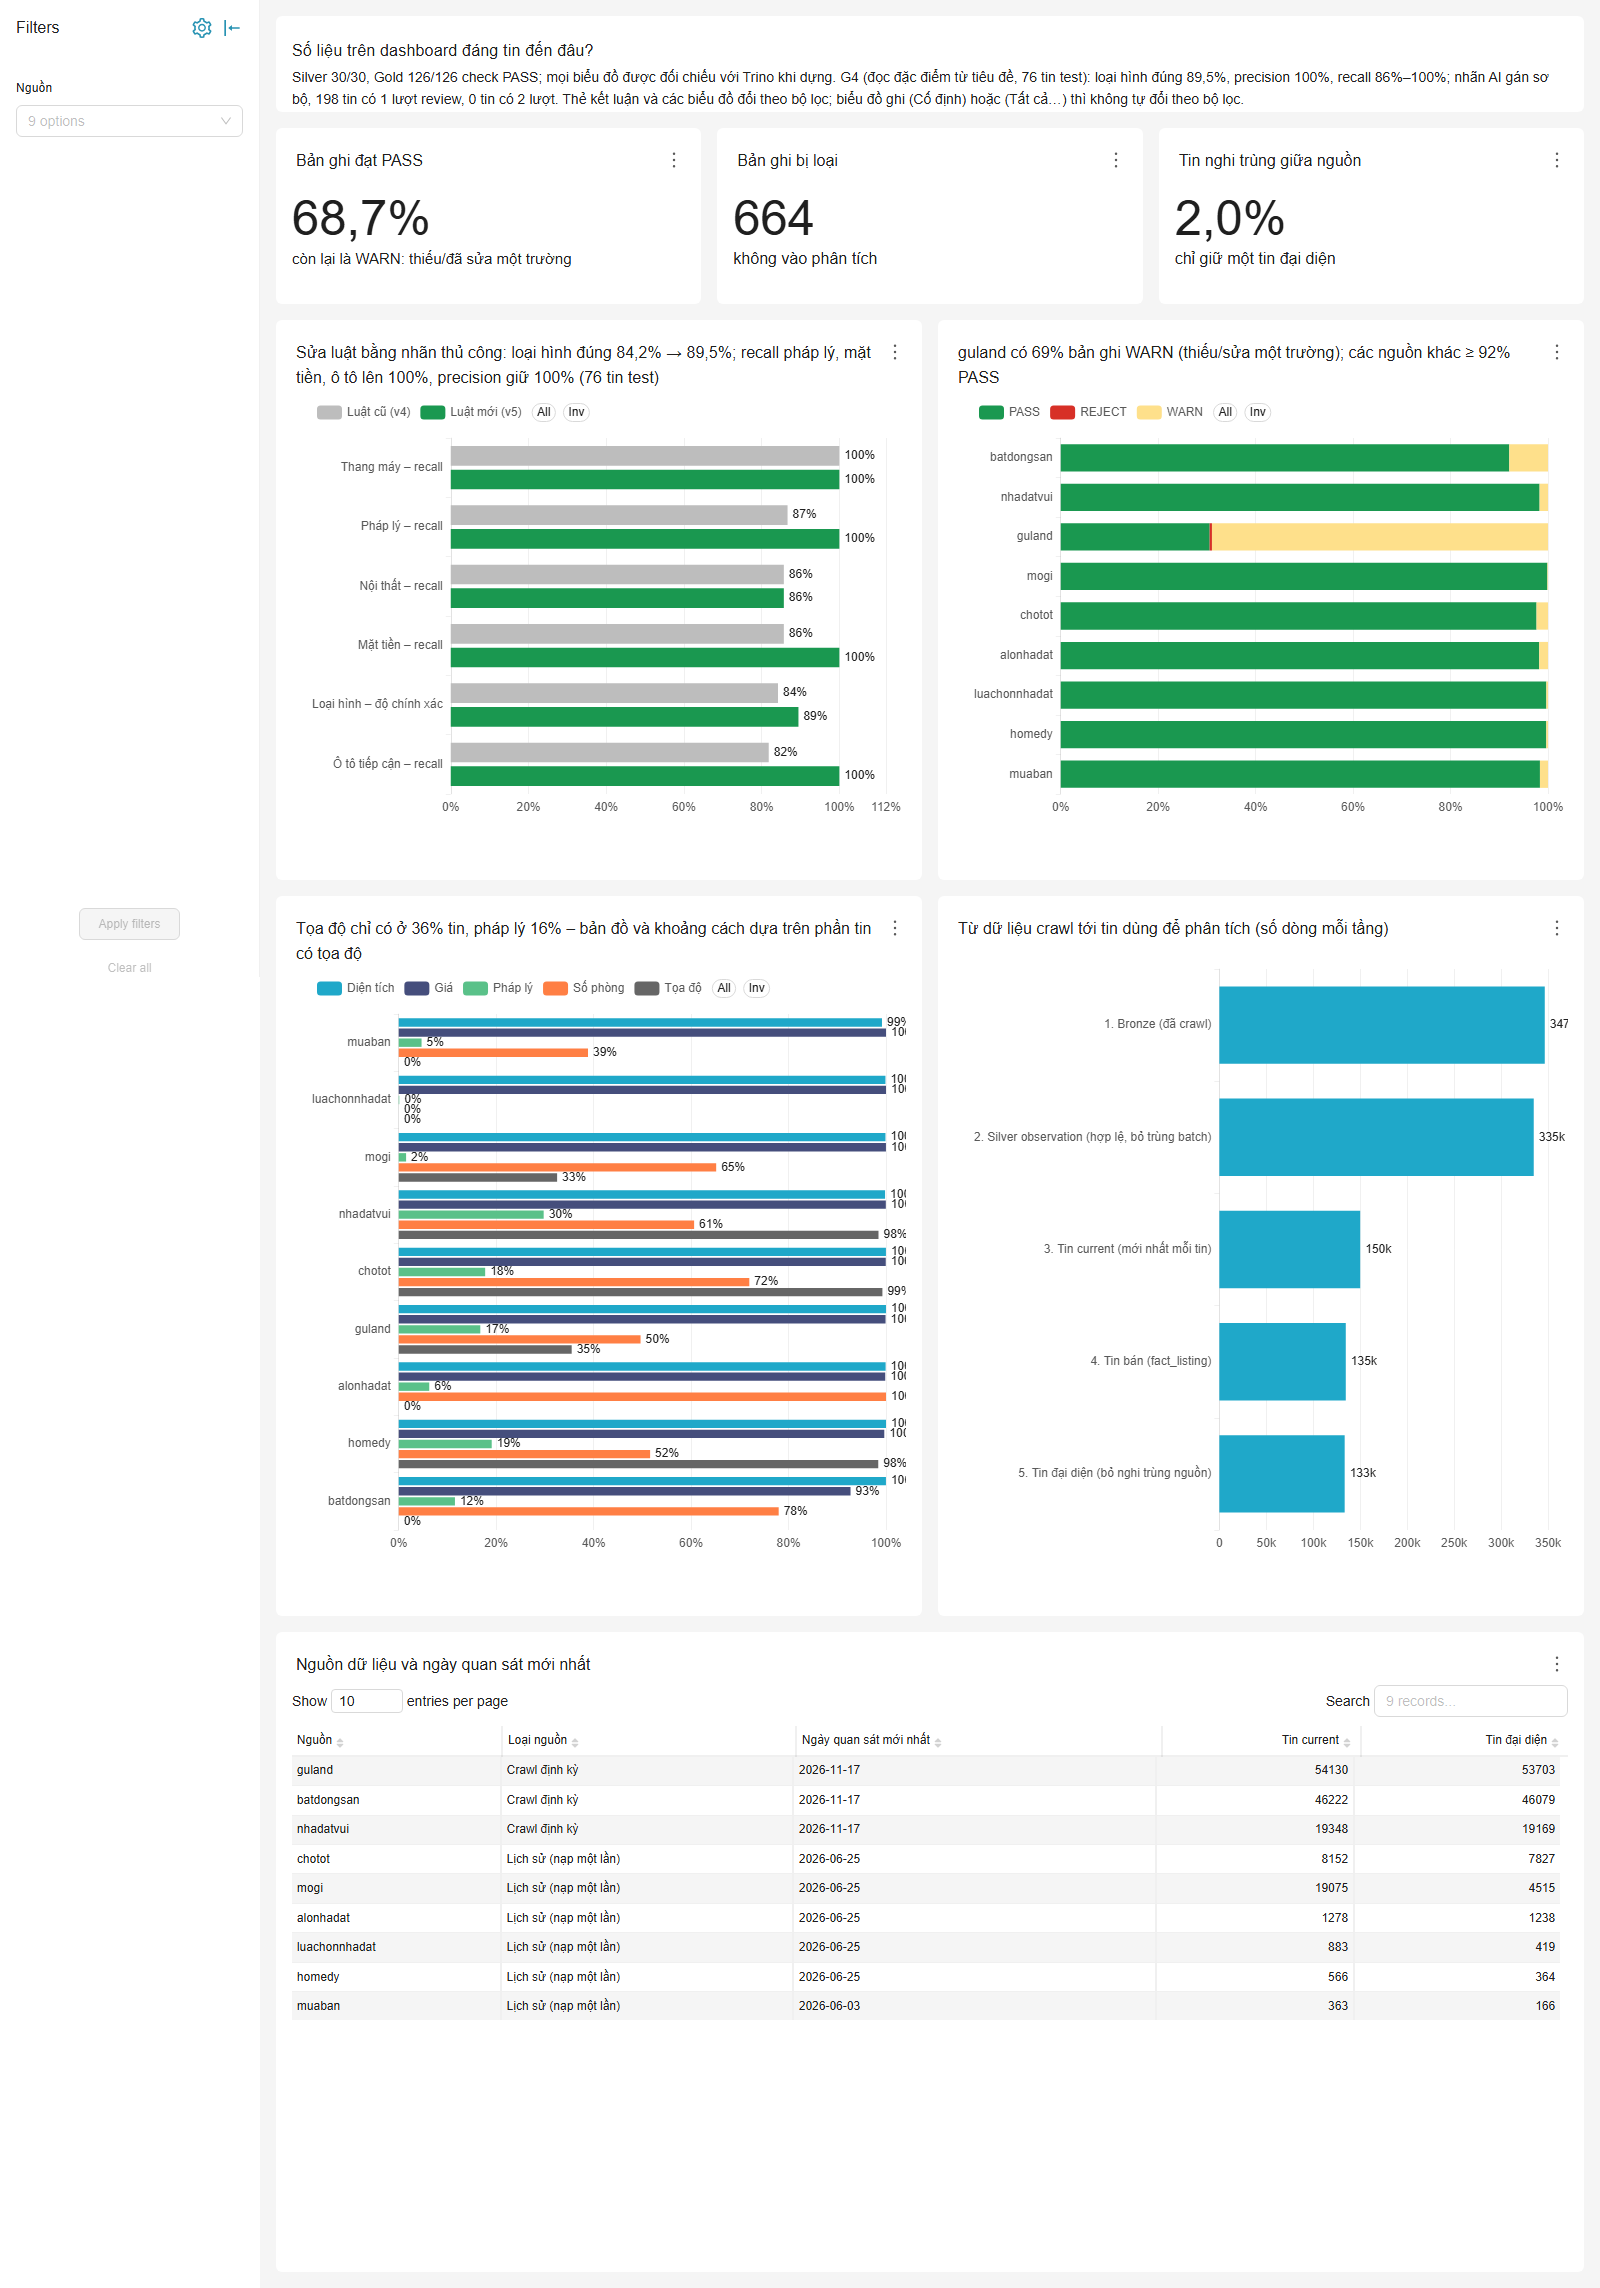
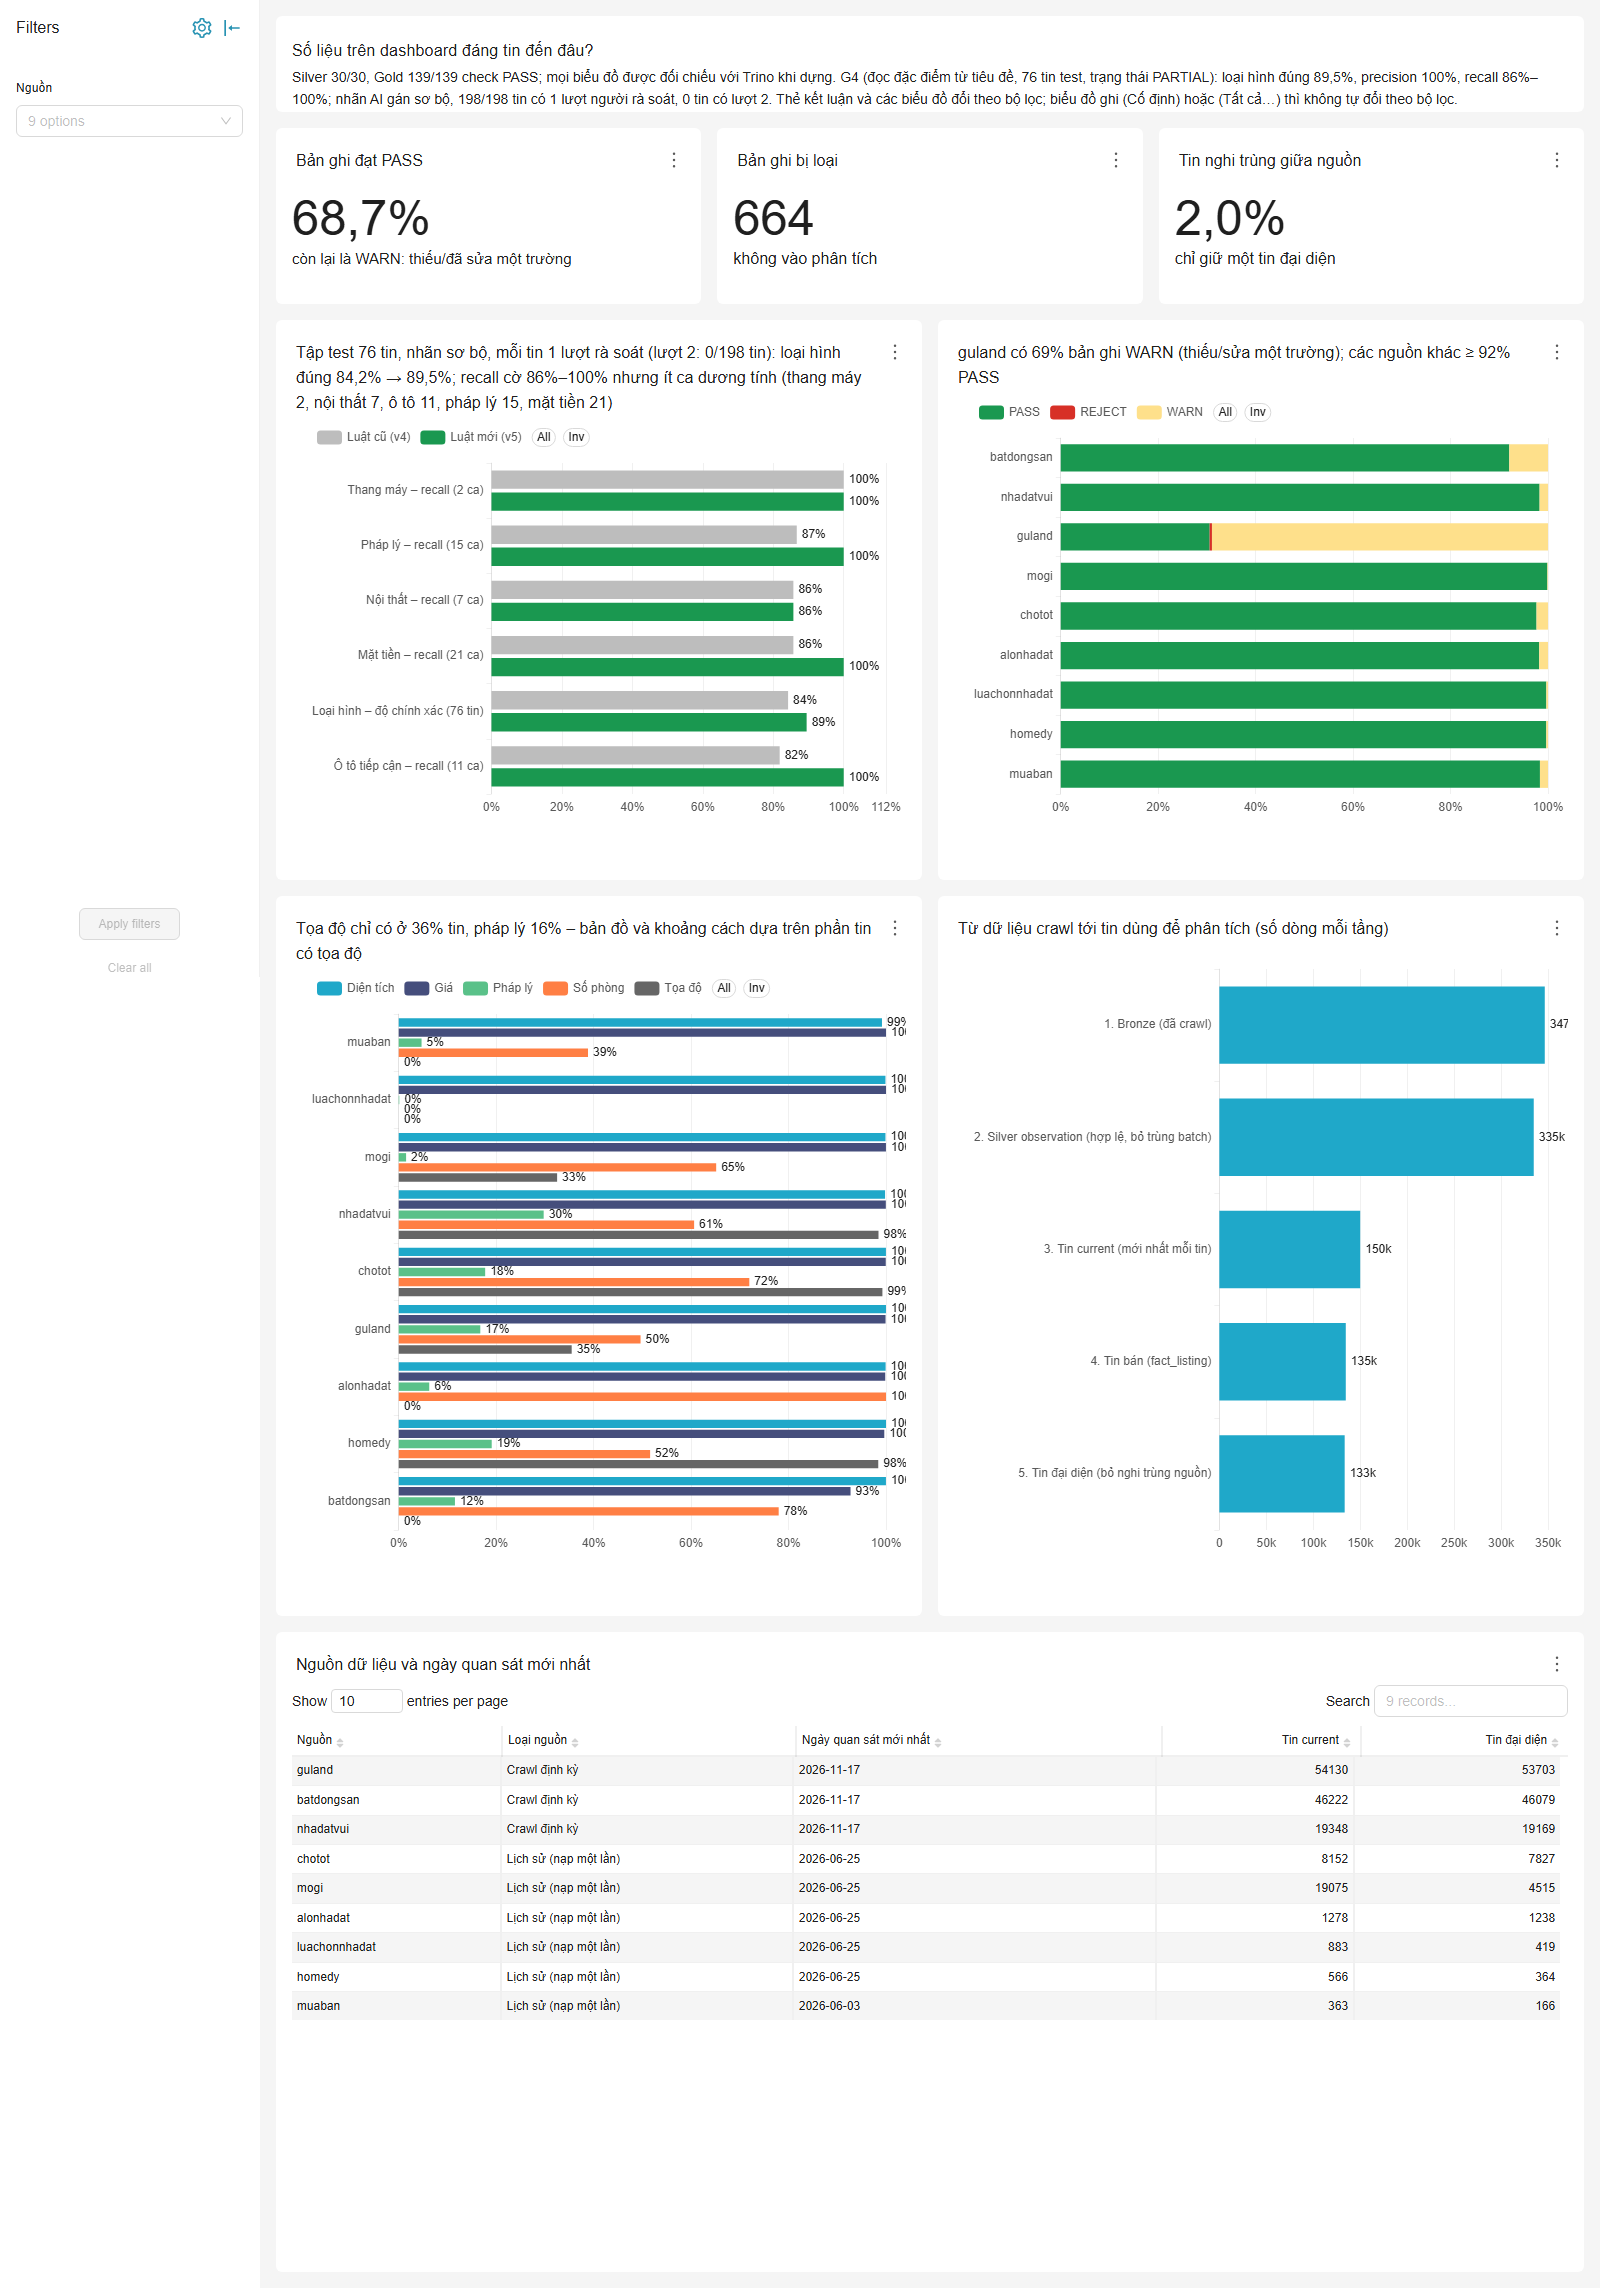
Chụp lại minh chứng dashboard sau R07, R08, R13
9 ảnh (5 dashboard mặc định, 4 ảnh đổi bộ lọc) chụp lại trên dữ liệu tới
batch 20261117. README: ev_reprice nay 62.472 tin, trùng backtest; nhà phố
Hà Nội 2,0% vs 3,0% (p = 0,024); căn hộ Hà Nội 17,5% vs 13,6%; Gold
139/139, unit test 566/566.

diff --git a/docs/evidence/personC_20261118/README.md b/docs/evidence/personC_20261118/README.md
@@ -1,4 +1,4 @@
-# Minh chứng dashboard v4 – vai C (20/11/2026, cập nhật bộ lọc theo tỉnh)
+# Minh chứng dashboard v4 – vai C (chụp lại 22/11/2026 sau các sửa R07, R08, R13)
 
 Mỗi BQ đọc theo thứ tự: **kết luận (KPI) → biểu đồ chứng minh → ví dụ tin thật kèm link → kiểm chứng**.
 Mỗi trang có **thẻ "Kết luận cho lựa chọn hiện tại"** (Handlebars): câu chữ, số liệu và kiểm định được tính bằng SQL
@@ -6,14 +6,14 @@ cho đúng tỉnh / loại hình / ngân sách / nơi làm đang chọn. Biểu 
 biểu đồ ghi **(Cố định)** hoặc **(Tất cả…)** là so sánh cố định, không theo bộ lọc.
 
 Dữ liệu: batch tới 20261117. Bảng bằng chứng `ev_*` do `src/gold/build_bq_evidence.py` tính trong pipeline;
-Gold 126/126 PASS (gồm 4 check cho bảng bằng chứng), 49/49 biểu đồ khớp Trino, unit test 500/500.
+Gold 139/139 PASS (gồm 5 check cho bảng bằng chứng), 49/49 biểu đồ khớp Trino, unit test 566/566 (nhánh c/fix-g4-r07-r13). Bảng ev_reprice dùng cùng tập tin và cùng giá đầu với bq2_backtest.py nên số đếm hai bên trùng nhau.
 Đã thử đổi bộ lọc sang Hà Nội, Đà Nẵng cho mọi biểu đồ: không biểu đồ nào lỗi hay trống; chỉ biểu đồ (Cố định)/(Tất cả…) không đổi.
 
 | Ảnh | Phát hiện chính | Bằng chứng |
 |---|---|---|
 | `01_tlcn-tong-quan.png` | Cùng cách trung tâm 5–10 km, nhà phố Hà Nội 256 tr/m², TP.HCM 119 tr/m² (gấp 2,1 lần); Hà Nội đắt hơn ở mọi vành đai | Bản đồ giá từng tin; median theo vành đai khoảng cách (mỗi điểm ≥ 30 tin) |
 | `02_tlcn-bq1.png` | Từ 3–5 lên 10–20 tỷ: quận trung tâm chỉ thêm ~22 m², quận xa > 10 km thêm ~65 m²; 90% tin có tin cùng quận tốt hơn | Bản đồ diện tích theo quận; đường diện tích theo ngân sách × vùng; mỗi quận một cặp tin thật (B rẻ hơn ≥ 10%, rộng hơn ≥ 20%, đủ phòng) |
-| `03_tlcn-bq2.png` | Tin rao trên P75 lúc đăng hạ giá nhiều hơn các tin còn lại – rõ ở TP.HCM (nhà phố 2,2% vs 1,7%, p = 0,003), không đúng ở Hà Nội; toàn bộ chênh thô 4,1% vs 2,9% (62.595 tin) nhưng sau khi kiểm soát nguồn chỉ còn p = 0,047 | Tỷ lệ hạ giá theo vị trí lúc đăng; 147 tin thật đã hạ giá; mô hình kiểm chứng trên tập test (8/10 nhóm lệch ≤ 5%); dữ liệu thô xác nhận hệ số ở 4/5 đặc điểm (ô tô ngược chiều – ghi rõ) |
+| `03_tlcn-bq2.png` | Tin rao trên P75 lúc đăng hạ giá nhiều hơn các tin còn lại – rõ ở TP.HCM (nhà phố 2,2% vs 1,7%, p = 0,003), không đúng ở Hà Nội; toàn bộ chênh thô 4,09% vs 2,92% (62.472 tin, trùng backtest) nhưng sau khi kiểm soát nguồn chỉ còn p = 0,047 | Tỷ lệ hạ giá theo vị trí lúc đăng; 147 tin thật đã hạ giá; mô hình kiểm chứng trên tập test (8/10 nhóm lệch ≤ 5%); dữ liệu thô xác nhận hệ số ở 4/5 đặc điểm (ô tô ngược chiều – ghi rõ) |
 | `04_tlcn-bq3.png` | Làm ở Khu công nghệ cao: Thủ Đức 3,7 km, rẻ hơn 54% so với Phú Nhuận 14 km; ở cả 16 nơi làm/học đều có quận rẻ hơn 6–69% mà đường đi không xa hơn | Bản đồ quận quanh nơi làm; xếp hạng đổi quận tốt nhất mỗi nơi; kiểm chứng tọa độ 12/16 điểm đến đúng quận (4 điểm còn lại ở quận giáp ranh) |
 | `05_tlcn-chat-luong.png` | Sửa luật trên nhãn sơ bộ + 1 lượt người rà soát: loại hình 84,2% → 89,5%, recall pháp lý/mặt tiền/ô tô lên 100% trên 76 tin test, nhưng mỗi cờ có ít ca dương tính (pháp lý 15, mặt tiền 21, ô tô 11) | G4 trước/sau; PASS/WARN/REJECT theo nguồn; độ phủ trường; phễu dữ liệu |
 
@@ -26,7 +26,7 @@ chỉ 36% tin có tọa độ; nhãn G4 mới có 1 lượt review; bản đồ 
 |---|---|---|
 | `06_loc_tong-quan_ha-noi.png` | Tổng quan · Hà Nội | 12.770 tin, median 274 tr/m²; trong 5 km 298 tr/m², từ 15 km 93 tr/m² (3,2 lần) |
 | `07_loc_bq1_da-nang.png` | BQ1 · Đà Nẵng · 3–5 tỷ | Hải Châu 48 m², Hòa Vang 104 m²; mỗi 10 km thêm ~83 m² |
-| `08_loc_bq2_ha-noi.png` | BQ2 · Hà Nội · nhà phố (loại hình mặc định) | H1 **ngược chiều ở nhà phố**: tin trên P75 hạ giá 2,0% vs 3,0% (z = −2,2; p = 0,031); căn hộ Hà Nội vẫn đúng chiều (17,5% vs 13,7%) |
+| `08_loc_bq2_ha-noi.png` | BQ2 · Hà Nội · nhà phố (loại hình mặc định) | H1 **ngược chiều ở nhà phố**: tin trên P75 hạ giá 2,0% vs 3,0% (z = −2,25; p = 0,024); căn hộ Hà Nội vẫn đúng chiều (17,5% vs 13,6%) |
 | `09_loc_bq3_ho-guom_cau-giay.png` | BQ3 · làm ở Hồ Gươm, nhắm Cầu Giấy | 7 quận rẻ hơn; Hai Bà Trưng 2,9 km, rẻ hơn 36%; Hoàng Mai rẻ hơn 41% |
 
 Lưu ý khi trình bày H1 (rao cao lúc đăng → phải hạ giá):
@@ -34,8 +34,8 @@ Lưu ý khi trình bày H1 (rao cao lúc đăng → phải hạ giá):
 - **Đúng ở TP.HCM**: nhà phố p = 0,003; mọi loại hình sau khi kiểm soát nguồn tỷ số odds 1,19, p = 0,013.
 - **Chưa đủ bằng chứng ở Đà Nẵng** (nhà phố p = 0,34).
 - **Hà Nội không có chênh lệch chung** (mọi loại hình sau khi kiểm soát nguồn: tỷ số odds 0,96, p = 0,63).
-  Tách theo loại hình thì nhà phố **ngược chiều** (2,0% vs 3,0%, p = 0,031), còn căn hộ vẫn đúng chiều (17,5% vs 13,7%).
-- **Toàn bộ dữ liệu**: chênh lệch thô 4,1% vs 2,9% (p < 0,001), nhưng phần lớn do khác biệt giữa các nguồn tin.
+  Tách theo loại hình thì nhà phố **ngược chiều** (2,0% vs 3,0%, p = 0,024), còn căn hộ vẫn đúng chiều (17,5% vs 13,6%).
+- **Toàn bộ dữ liệu**: chênh lệch thô 4,09% vs 2,92% (p < 0,001), nhưng phần lớn do khác biệt giữa các nguồn tin.
   Kiểm soát theo nguồn (CMH, cùng tập 62.472 tin của `bq2_backtest.py`) chỉ còn tỷ số odds 1,11, p = 0,047:
   đạt ở mức 5%, không qua ngưỡng Bonferroni 0,017.
 
